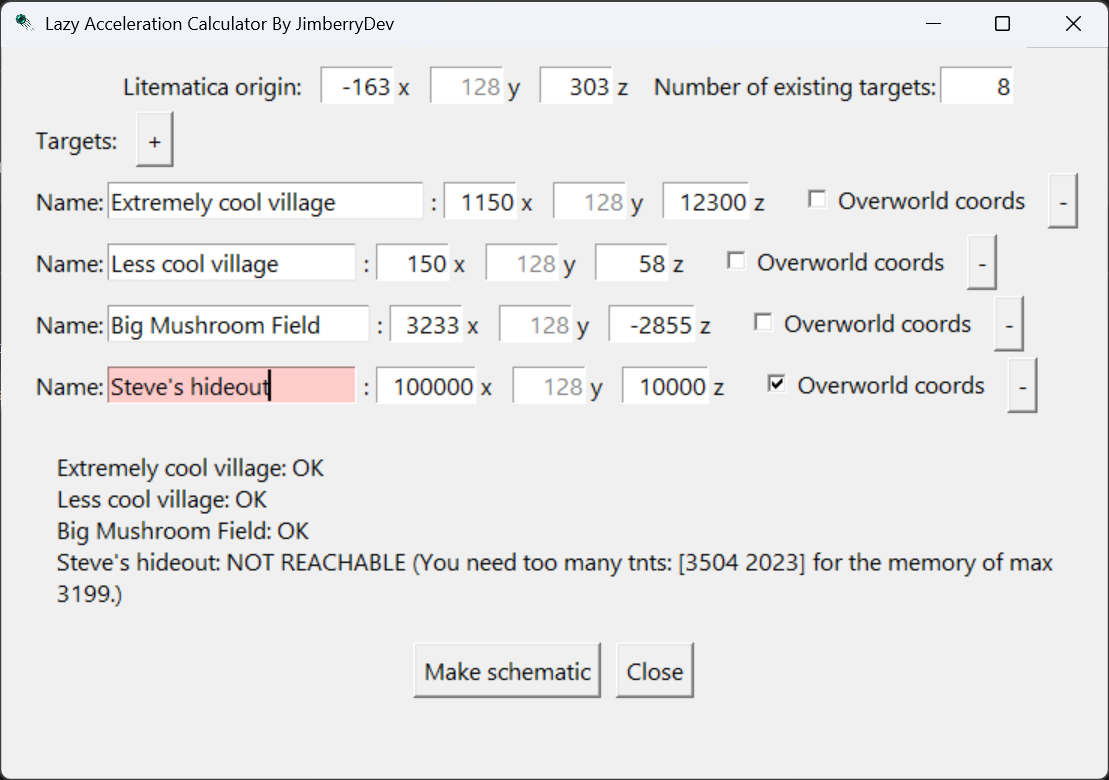
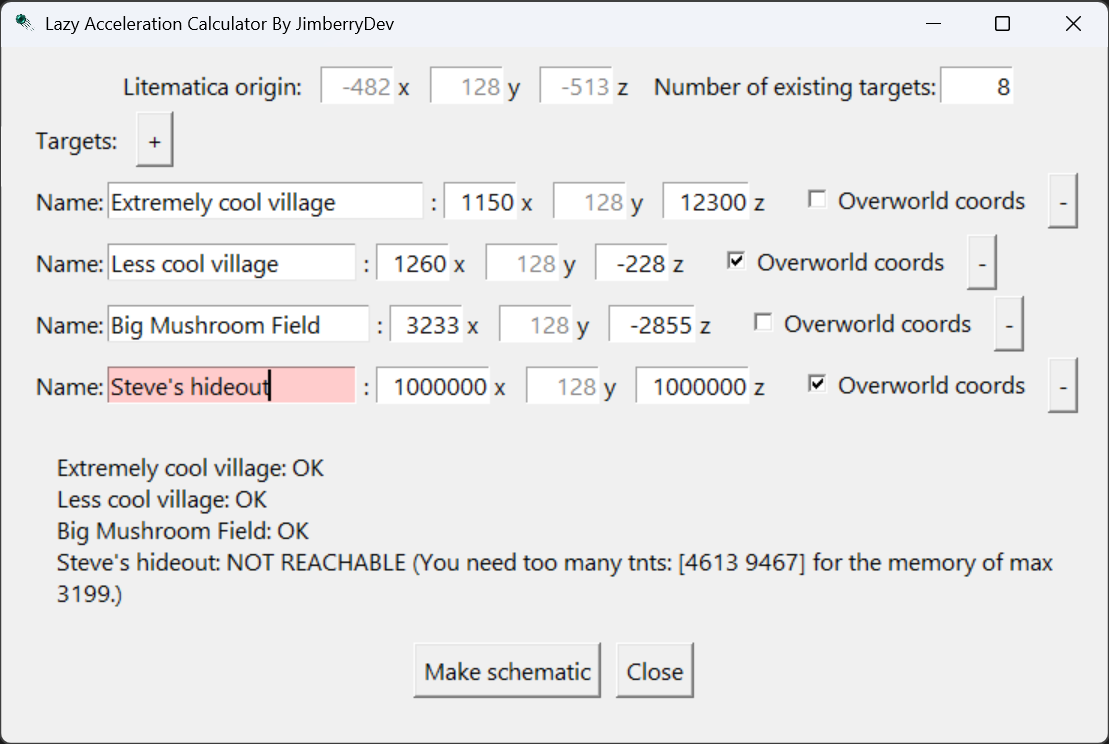
gui picture updated
Also:
- the initial vector was set to 0 as a test and was forgotten. Now fixed
- fixed the overworld checkbox: it wasn't dividing by 8
-

diff --git a/app/slice_schems.py b/app/slice_schems.py
@@ -6,7 +6,7 @@ from cannon_calc import target_to_binary
 from data_classes import EncodedTarget
 
 
-BASE_DIR = Path(__file__).resolve().parent
+BASE_DIR = Path(__file__).resolve().parent if getattr(sys, "frozen", False) else Path(__file__).resolve().parent.parent
 SRC_DIR = BASE_DIR / "src"
 
 APP_DIR = Path(sys.executable).resolve().parent if getattr(sys, "frozen", False) else Path(__file__).resolve().parent
@@ -192,8 +192,7 @@ def rom_entries(name: str, starting_id: int, encoded_targets: list[EncodedTarget
             slices[f"repeater{i//8}"] = copy_region(repeater, repeater.x, repeater.y, cur_z)
             cur_z += 1
 
-        print("It def got here")
-        slice = bits_to_region(t.x_bits, t.z_bits)
+        slice = rom_slice_from_bits(i, t.x_bits, t.z_bits)
         slice = copy_region(slice, slice.x, slice.y, cur_z)
 
         target_name = t.name or str(i)

diff --git a/app/cannon_calc.py b/app/cannon_calc.py
@@ -14,8 +14,7 @@ DIRECTIONS = {
     "south":   {"name": "south", "vector":      np.array([0.2577611051239664, 0, 0.8405252517166506]), "bit": 0},
     "west":    {"name": "west", "vector":       np.array([-0.7990852942457304, 0, -0.3995426547435254]), "bit": 1},
     "east":    {"name": "east", "vector":       np.array([0.8022091152196946, 0, -0.39323978471691357]), "bit": 0},
-    # "initial": {"name": "initial", "vector":    np.array([-0.2651525076935224, -0.45633449169280826,-0.21949711207872816])},
-    "initial": {"name": "initial", "vector":    np.array([0, 0, 0])},
+    "initial": {"name": "initial", "vector":    np.array([-0.2651525076935224, -0.45633449169280826,-0.21949711207872816])},
 }
 
 

diff --git a/app/GUI.py b/app/GUI.py
@@ -309,7 +309,7 @@ def collect_targets(target_rows: list[TargetRow]) -> list[SchematicTarget]:
         x, y, z = format_coordinates(target_row.coordinate_entries, allow_placeholder=True)
 
         # apply overworld conversion if needed
-        if getattr(target_row, "overworld_var", None) and target_row.overworld_var.get():  # type: ignore
+        if getattr(target_row.frame, "overworld_var", None) and target_row.frame.overworld_var.get():  # type: ignore
             x = x // 8
             z = z // 8
 

diff --git a/README.md b/README.md
@@ -179,13 +179,13 @@ pip install pyinstaller
 Create spec:
 
 ```bash
-pyi-makespec --onefile --windowed --name LazyAccCannon gui.py --add-data "src;src" --add-data "app.ico;." --icon app.ico
+pyi-makespec --onefile --windowed --name LazyAccCannonCalc gui.py --add-data "src;src" --add-data "app.ico;." --icon app.ico
 ```
 
 Build:
 
 ```bash
-pyinstaller LazyAccCannon.spec
+pyinstaller LazyAccCannonCalc.spec
 ```
 
 Output:
